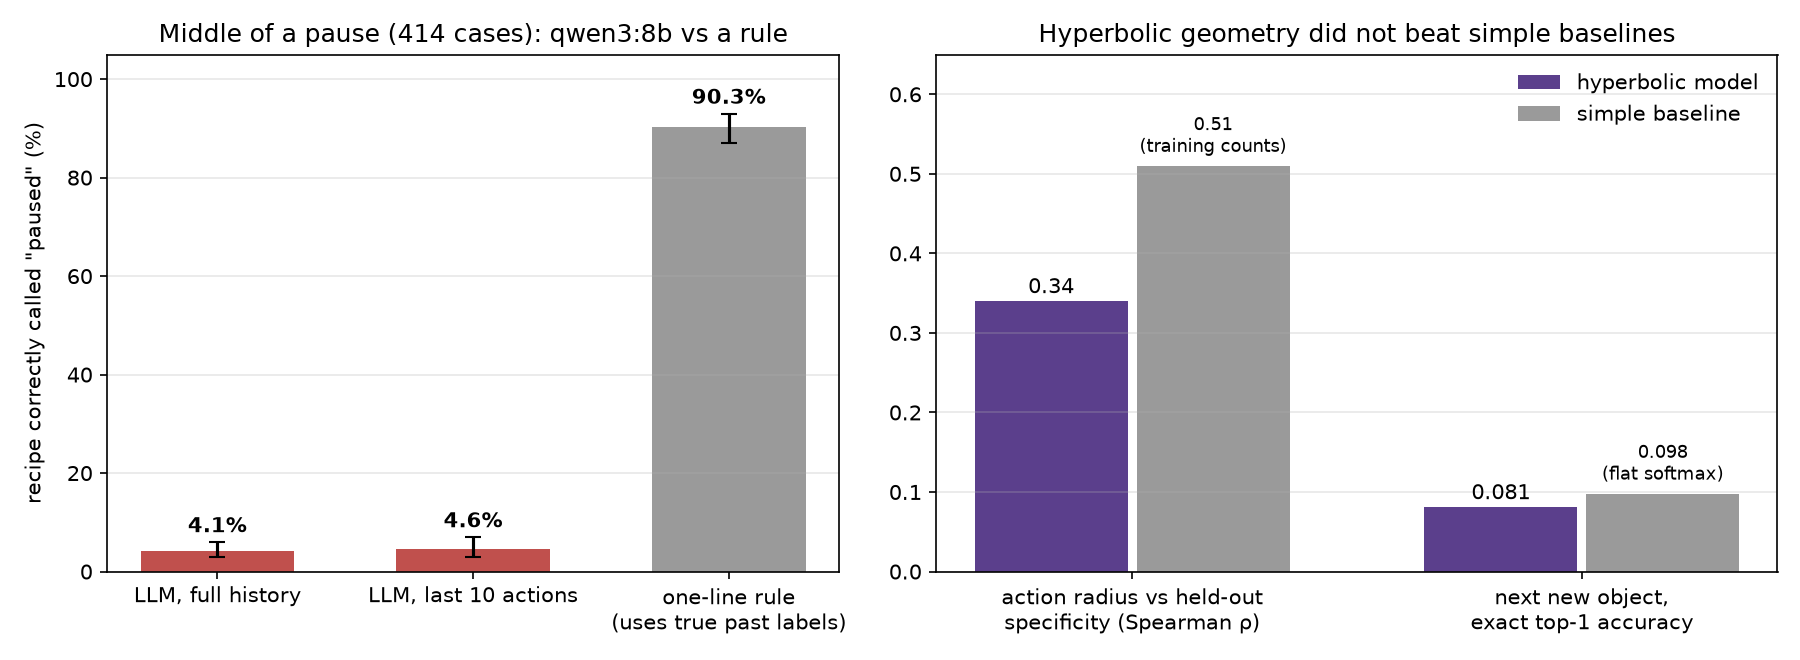
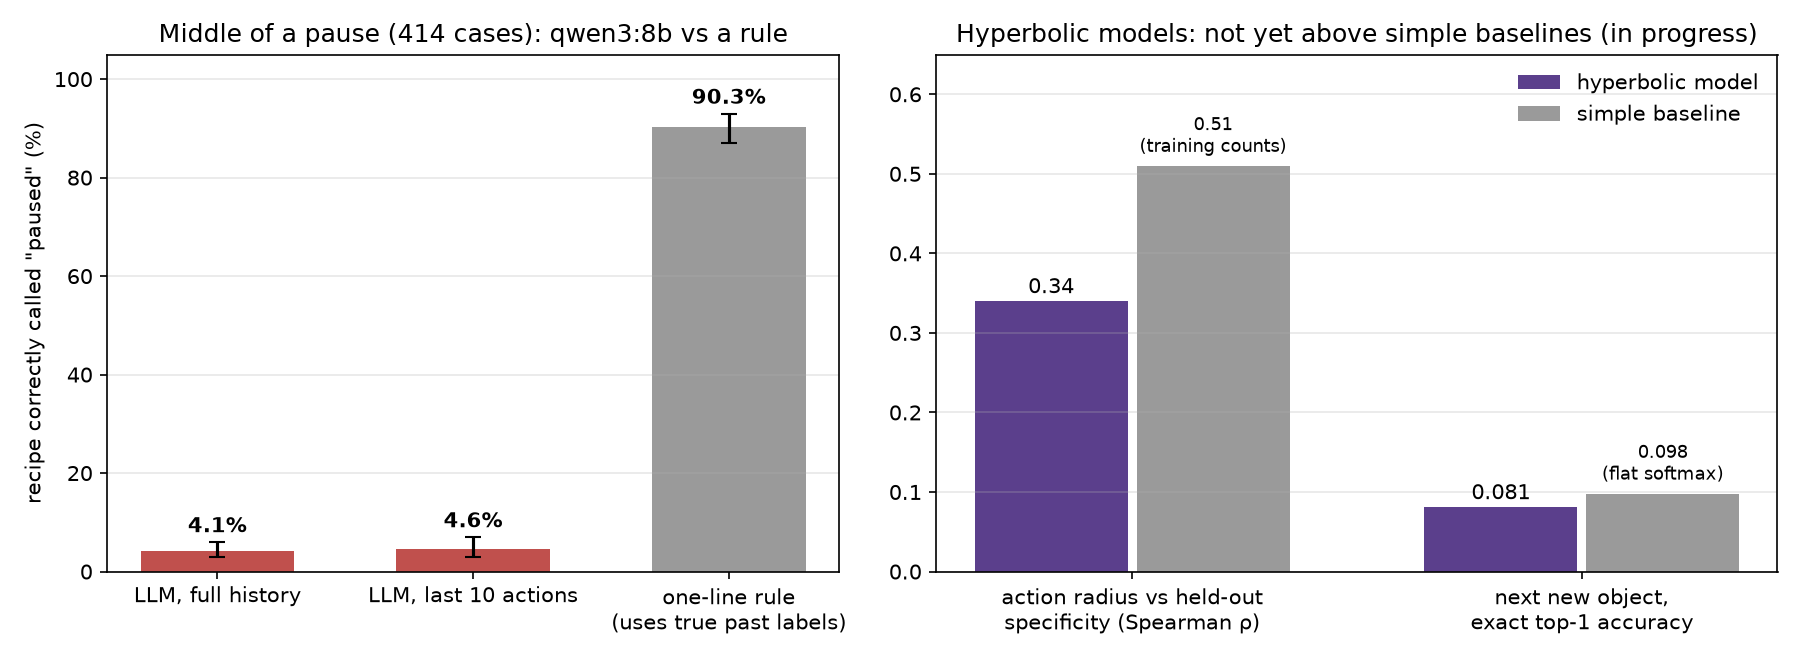
Add waiting-action check (preliminary), mark hyperbolic work as in progress, describe my role

Changed region(s): [[0.5289, 0.0303, 0.9956, 0.0606]]

diff --git a/analysis/pause_resume/validation/compare.py b/analysis/pause_resume/validation/compare.py
@@ -1,0 +1,162 @@
+"""
+analysis/pause_resume/validation/compare.py
+Compares the user's hand labels (label_me.xlsx) with Claude's labels (key_hidden.csv). Changes no existing file.
+
+The event-level "what if" needs the events and the 400 baseline windows. They are rebuilt by running
+pause_resume.main() with every output folder redirected to a temporary folder (nothing in analysis/pause_resume/
+is overwritten), then checked against the published numbers (26.8% / 6.0%).
+
+Run (intention env): KMP_DUPLICATE_LIB_OK=TRUE python analysis/pause_resume/validation/compare.py
+Output: validation/compare_results.json (validation_report.md is written by hand from it)
+"""
+import contextlib
+import importlib.util
+import io
+import json
+import sys
+import tempfile
+from pathlib import Path
+
+import numpy as np
+import pandas as pd
+
+SEED = 0
+N_DRAWS = 20000
+HERE = Path(__file__).resolve().parent
+PR = HERE.parent
+POP = {("before_gap", 1): 146, ("before_gap", 0): 1075, ("baseline", 1): 30, ("baseline", 0): 1144}   # all 2,395 labels
+# Scenario C: rows labelled "not waiting" whose note says the action leads to / induces waiting (Claude's reading of the notes)
+NOTE_SAYS_LEADS_TO_WAITING = ["S014", "S015", "S018", "S020"]
+
+
+def kappa(a, b):
+    a, b = np.asarray(a), np.asarray(b)
+    po = (a == b).mean()
+    pe = a.mean() * b.mean() + (1 - a.mean()) * (1 - b.mean())
+    return (po - pe) / (1 - pe)
+
+
+def jeffreys(k, n):
+    from scipy.stats import beta
+    return [float(beta.ppf(.025, k + .5, n - k + .5)) if k > 0 else 0.0,
+            float(beta.ppf(.975, k + .5, n - k + .5)) if k < n else 1.0]
+
+
+def rebuild_events():
+    spec = importlib.util.spec_from_file_location("pause_resume", PR / "pause_resume.py")
+    pr = importlib.util.module_from_spec(spec)
+    spec.loader.exec_module(pr)
+    tmp = Path(tempfile.mkdtemp(prefix="pr_rebuild_"))
+    pr.OUT, pr.TAB, pr.FIG = tmp, tmp / "tables", tmp / "figures"          # LABELS still points to the real (read-only) file
+    grab = {}
+
+    def prof(frame, event, arg):
+        if event == "return" and frame.f_code is pr.main.__code__:
+            grab.update(frame.f_locals)
+    sys.setprofile(prof)
+    try:
+        with contextlib.redirect_stdout(io.StringIO()):
+            pr.main()
+    finally:
+        sys.setprofile(None)
+    same_key = pd.read_csv(tmp / "tables" / "to_label_key.csv").equals(pd.read_csv(PR / "tables" / "to_label_key.csv"))
+    ev, base_win, cw = grab["ev"], grab["base_win"], grab["cw"]
+    ev_kn = np.array([(sum(cw(i) for i in l), len(l)) for l in ev.last3])
+    win_kn = np.array([(sum(cw(i) for i in w), len(w)) for _, w in base_win])
+    return ev_kn, win_kn, same_key
+
+
+def rate(kn, ppv, fpr_miss):
+    """share of events/windows with >= 1 waiting narration if each Claude-waiting one is truly waiting with prob ppv
+    and each Claude-not-waiting one is truly waiting with prob fpr_miss (vectorised over draws)"""
+    k, n = kn[:, 0][None, :], kn[:, 1][None, :]
+    ppv, miss = np.atleast_1d(ppv)[:, None], np.atleast_1d(fpr_miss)[:, None]
+    return 100 * (1 - (1 - ppv) ** k * (1 - miss) ** (n - k)).mean(1)
+
+
+def _ab(d, st):
+    """Jeffreys Beta parameters of P(me waiting | Claude waiting) in one set"""
+    ds = d[(d.set == st) & (d.claude_label == 1)]
+    return int(ds.u.sum()) + .5, len(ds) - int(ds.u.sum()) + .5
+
+
+def pc0(v):
+    return [round(float(np.percentile(v, 2.5)), 1), round(float(np.percentile(v, 97.5)), 1)]
+
+
+def main():
+    x = pd.read_excel(HERE / "label_me.xlsx")
+    key = pd.read_csv(HERE / "key_hidden.csv")
+    m = key.merge(x[["id", "my_label", "my_note"]], on="id")
+    m = m[m.my_label.notna()].copy()
+    m["my_note"] = m.my_note.fillna("")
+    text = dict(zip(x.id, x["SENTENCE TO LABEL (as written)"]))
+    res = dict(n_labelled=len(m), my_label_counts=m.my_label.value_counts().to_dict(),
+               labelled_per_group={f"{s}/{c}": int(n) for (s, c), n in m.groupby(["set", "claude_label"]).size().items()})
+
+    ev_kn, win_kn, same_key = rebuild_events()
+    pub_ev, pub_win = rate(ev_kn, 1.0, 0.0)[0], rate(win_kn, 1.0, 0.0)[0]
+    res["rebuild_check"] = dict(same_label_key=same_key, events=len(ev_kn), windows=len(win_kn),
+                                event_pct=round(pub_ev, 1), baseline_pct=round(pub_win, 1))
+    assert same_key and round(pub_ev, 1) == 26.8 and round(pub_win, 1) == 6.0
+
+    scen = {"A_as_labelled": m.my_label.map({"waiting": 1, "not waiting": 0}),
+            "B_unsure_as_waiting": m.my_label.map({"waiting": 1, "not waiting": 0, "unsure": 1}),
+            "C_notes_leads_to_waiting": m.my_label.map({"waiting": 1, "not waiting": 0})
+                                         .where(~m.id.isin(NOTE_SAYS_LEADS_TO_WAITING), 1)}
+    rng = np.random.default_rng(SEED)
+    res["scenarios"] = {}
+    for name, u in scen.items():
+        d = m.assign(u=u)[u.notna()]
+        c, y = d.claude_label.values, d.u.astype(int).values
+        tab = pd.crosstab(pd.Series(y, name="me"), pd.Series(c, name="claude")).reindex(index=[1, 0], columns=[1, 0], fill_value=0)
+        # population-weighted recall (the sample has 50% Claude-waiting; the 2,395 sentences have 7.3%)
+        w = d.apply(lambda r: POP[(r.set, r.claude_label)] / ((d.set == r.set) & (d.claude_label == r.claude_label)).sum(), axis=1).values
+        s = dict(n_used=len(d), agreement_pct=round(100 * (c == y).mean(), 1), kappa=round(kappa(c, y), 2),
+                 table_me_rows_claude_cols={"me_wait": tab.loc[1].tolist(), "me_not": tab.loc[0].tolist()},
+                 precision_pct=round(100 * y[c == 1].mean(), 1), precision_ci=jeffreys(int(y[c == 1].sum()), int((c == 1).sum())),
+                 recall_raw_pct=round(100 * c[y == 1].mean(), 1) if (y == 1).any() else None,
+                 recall_weighted_pct=round(100 * (w * c * y).sum() / (w * y).sum(), 1) if (y == 1).any() else None,
+                 claude_not_but_me_wait=f"{int(y[c == 0].sum())}/{int((c == 0).sum())}",
+                 claude_not_but_me_wait_ci=jeffreys(int(y[c == 0].sum()), int((c == 0).sum())))
+        s["per_set"] = {}
+        for st in ("before_gap", "baseline"):
+            ds = d[d.set == st]
+            cs, ys = ds.claude_label.values, ds.u.astype(int).values
+            s["per_set"][st] = dict(n=len(ds), agreement_pct=round(100 * (cs == ys).mean(), 1), kappa=round(kappa(cs, ys), 2),
+                                    precision=f"{int(ys[cs == 1].sum())}/{int((cs == 1).sum())}",
+                                    claude_not_but_me_wait=f"{int(ys[cs == 0].sum())}/{int((cs == 0).sum())}")
+        # what-if: PPV per set; miss rate pooled over both sets (0 or few cases each, no sign it differs)
+        miss_k, miss_n = int(y[c == 0].sum()), int((c == 0).sum())
+        point, draws = {}, {}
+        miss_draw = rng.beta(miss_k + .5, miss_n - miss_k + .5, N_DRAWS)        # one shared draw for both sets
+        for st, kn in (("before_gap", ev_kn), ("baseline", win_kn)):
+            ds = d[(d.set == st) & (d.claude_label == 1)]
+            k1, n1 = int(ds.u.sum()), len(ds)
+            point[st] = rate(kn, k1 / n1, miss_k / miss_n)[0]
+            draws[st] = rate(kn, rng.beta(k1 + .5, n1 - k1 + .5, N_DRAWS), miss_draw)
+        s["what_if_if_claude_misses_none"] = dict(
+            events_pct=round(float(np.median(rate(ev_kn, rng.beta(*_ab(d, "before_gap"), N_DRAWS), 0.0))), 1),
+            events_ci=pc0(rate(ev_kn, rng.beta(*_ab(d, "before_gap"), N_DRAWS), 0.0)),
+            baseline_ci=pc0(rate(win_kn, rng.beta(*_ab(d, "baseline"), N_DRAWS), 0.0)))
+        pc = lambda v: [round(float(np.percentile(v, 2.5)), 1), round(float(np.percentile(v, 97.5)), 1)]
+        diff, ratio = draws["before_gap"] - draws["baseline"], draws["before_gap"] / draws["baseline"]
+        s["what_if"] = dict(events_pct=round(point["before_gap"], 1), events_ci=pc(draws["before_gap"]),
+                            baseline_pct=round(point["baseline"], 1), baseline_ci=pc(draws["baseline"]),
+                            diff_points=round(point["before_gap"] - point["baseline"], 1), diff_ci=pc(diff),
+                            ratio=round(point["before_gap"] / point["baseline"], 1) if point["baseline"] else None,
+                            ratio_ci=pc(ratio), p_diff_gt_0=round(float((diff > 0).mean()), 3))
+        res["scenarios"][name] = s
+
+    dis = m.assign(u=scen["A_as_labelled"])
+    dis = dis[dis.u.isna() | (dis.u != dis.claude_label)]
+    res["disagreements"] = [dict(id=r.id, set=r.set, sentence=text[r.id], me=r.my_label,
+                                 claude="waiting" if r.claude_label else "not waiting", note=r.my_note)
+                            for r in dis.itertuples()]
+    json.dump(res, open(HERE / "compare_results.json", "w", encoding="utf-8"), indent=1, ensure_ascii=False)
+    print(json.dumps({k: v for k, v in res.items() if k != "disagreements"}, indent=1, ensure_ascii=False))
+    print(len(res["disagreements"]), "disagreements / unsure")
+
+
+if __name__ == "__main__":
+    main()

diff --git a/analysis/pause_resume/validation/make_sample.py b/analysis/pause_resume/validation/make_sample.py
@@ -1,0 +1,118 @@
+"""
+analysis/pause_resume/validation/make_sample.py
+Builds the 100-sentence sample for checking Claude's waiting labels by hand. Reads only; changes no existing file.
+Text is copied exactly as in HD_EPIC_Narrations.pkl / complete_recipes.json (not even whitespace is stripped).
+
+Run (intention env): python analysis/pause_resume/validation/make_sample.py
+Outputs (this folder): key_hidden.csv, label_me.xlsx
+"""
+import glob
+import json
+from pathlib import Path
+
+import pandas as pd
+from openpyxl import Workbook
+from openpyxl.styles import Alignment, Font, PatternFill
+from openpyxl.worksheet.datavalidation import DataValidation
+
+SEED = 0
+N_PER_GROUP = 25
+ROOT = Path(__file__).resolve().parents[3]
+ANN = ROOT / "annotations"
+PR = ROOT / "analysis" / "pause_resume"
+OUT = PR / "validation"
+VIDEO_ID_FIXES = {"P09-2024623-154547": "P09-20240623-154547"}      # same fix as pause_resume.py
+
+
+def main():
+    # the 2,395 labelled sentences: item -> narration_id, set, Claude's label
+    key = pd.read_csv(PR / "tables" / "to_label_key.csv")
+    lab = pd.read_csv(PR / "tables" / "claude_wait_labels.csv")
+    lab = key.merge(lab[["item", "waiting"]], on="item", validate="1:1")
+
+    # Step 1: 25 per (set, label) group, seed 0, then shuffle all 100
+    parts, notes = [], []
+    for s in ("before_gap", "baseline"):
+        for w in (1, 0):
+            g = lab[(lab.set == s) & (lab.waiting == w)]
+            n = min(N_PER_GROUP, len(g))
+            if n < N_PER_GROUP:
+                notes.append(f"{s}/{'waiting' if w else 'not waiting'}: only {len(g)} available, all taken")
+            parts.append(g.sample(n=n, random_state=SEED))
+            print(f"{s:10s} {'waiting' if w else 'not waiting':12s} available {len(g):5d}  taken {n}")
+    smp = pd.concat(parts).sample(frac=1, random_state=SEED).reset_index(drop=True)
+    smp["id"] = [f"S{i + 1:03d}" for i in range(len(smp))]
+
+    # raw narrations (no stripping), ordered within each video for the before / after context
+    d = pd.read_pickle(ANN / "narrations-and-action-segments" / "HD_EPIC_Narrations.pkl")
+    d = d.sort_values(["video_id", "start_timestamp", "stop_timestamp"] if "stop_timestamp" in d else
+                      ["video_id", "start_timestamp", "end_timestamp"]).reset_index(drop=True)
+    d["prev"] = d.groupby("video_id").narration.shift(1)
+    d["next"] = d.groupby("video_id").narration.shift(-1)
+    nar = d.set_index("unique_narration_id")
+
+    # recipe(s) of the activity blocks containing the narration's start (same rule as pause_resume.py)
+    names = {k: v["name"] for k, v in json.load(open(ANN / "high-level" / "complete_recipes.json", encoding="utf-8")).items()}
+    dur = pd.read_csv(ANN / "youtube-links" / "HD_EPIC_YouTube_URLs.csv").set_index("video_id").duration
+    b = pd.concat([pd.read_csv(f, dtype=str) for f in sorted(glob.glob(str(ANN / "high-level" / "activities" / "*.csv")))],
+                  ignore_index=True)
+    b["video_id"] = b.video_id.replace(VIDEO_ID_FIXES)
+    b["s"] = b.start_time.astype(float)
+    b["e"] = pd.to_numeric(b.end_time, errors="coerce")
+    b.loc[b.e.isna(), "e"] = b.video_id.map(dur)
+    b = b[b.recipe_id.notna()]
+
+    def recipes_of(nid):
+        r = nar.loc[nid]
+        g = b[(b.video_id == r.video_id) & (b.s <= float(r.start_timestamp)) & (float(r.start_timestamp) < b.e)]
+        keys = sorted({f"{r.participant_id}_{x.strip()}" for ids in g.recipe_id for x in ids.split(",") if x.strip()})
+        return " / ".join(names[k] for k in keys)
+
+    smp["participant"] = smp.narration_id.map(nar.participant_id)
+    smp["recipe"] = smp.narration_id.map(recipes_of)
+    smp["before"] = smp.narration_id.map(nar.prev).fillna("(start of video)")
+    smp["sentence"] = smp.narration_id.map(nar.narration)
+    smp["after"] = smp.narration_id.map(nar.next).fillna("(end of video)")
+    assert smp.sentence.notna().all() and (smp.recipe != "").all()
+
+    # hidden key
+    smp.rename(columns={"item": "original_item", "waiting": "claude_label"})[
+        ["id", "original_item", "narration_id", "set", "claude_label"]].to_csv(OUT / "key_hidden.csv", index=False)
+
+    # Step 2: the sheet to label (no labels, no set)
+    wb = Workbook()
+    ws = wb.active
+    ws.title = "label_me"
+    head = ["id", "participant", "recipe (as written)", "sentence BEFORE (as written)",
+            "SENTENCE TO LABEL (as written)", "sentence AFTER (as written)", "my_label", "my_note"]
+    ws.append(head)
+    for r in smp.itertuples():
+        ws.append([r.id, r.participant, r.recipe, r.before, r.sentence, r.after, None, None])
+    widths = [7, 11, 24, 45, 55, 45, 14, 40]
+    for i, w in enumerate(widths):
+        ws.column_dimensions[chr(65 + i)].width = w
+    grey, bold = Font(color="808080"), Font(bold=True)
+    for cell in ws[1]:
+        cell.font = Font(bold=True, color="FFFFFF")
+        cell.fill = PatternFill("solid", fgColor="404040")
+        cell.alignment = Alignment(wrap_text=True, vertical="center")
+    for row in ws.iter_rows(min_row=2):
+        for cell in row:
+            cell.alignment = Alignment(wrap_text=True, vertical="top")
+        row[3].font = row[5].font = grey
+        row[4].font = Font(bold=True, size=12)
+        row[6].fill = row[7].fill = PatternFill("solid", fgColor="FFF8DC")
+    dv = DataValidation(type="list", formula1='"waiting,not waiting,unsure"', allow_blank=True,
+                        showErrorMessage=True, errorTitle="Choose one", error="Choose: waiting / not waiting / unsure")
+    ws.add_data_validation(dv)
+    dv.add(f"G2:G{len(smp) + 1}")
+    ws.freeze_panes = "A2"
+    wb.save(OUT / "label_me.xlsx")
+
+    print(f"{len(smp)} sentences -> label_me.xlsx, key_hidden.csv")
+    for n in notes:
+        print("NOTE:", n)
+
+
+if __name__ == "__main__":
+    main()

diff --git a/docs/make_figure.py b/docs/make_figure.py
@@ -52,7 +52,7 @@ def main():
         g.text(i - 0.18, hyp + 0.01, f"{hyp:{fmt}}", ha="center")
         g.text(i + 0.18, base + 0.01, f"{base:{fmt}}\n({base_name})", ha="center", va="bottom", fontsize=8.5)
     g.set(xticks=x, xticklabels=[q[0] for q in groups], ylim=(0, 0.65),
-          title="Hyperbolic geometry did not beat simple baselines")
+          title="Hyperbolic models: not yet above simple baselines (in progress)")
     g.legend(loc="upper right", frameon=False)
     g.grid(axis="y", alpha=0.3)
 
